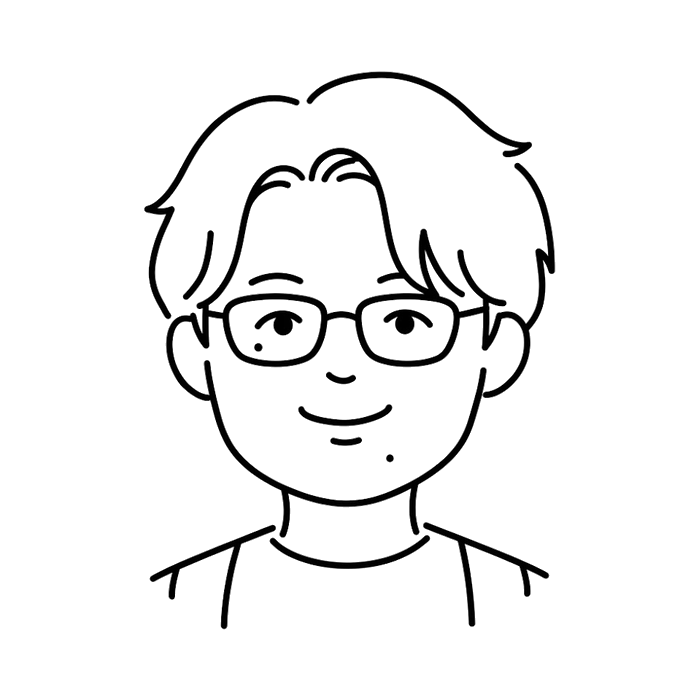
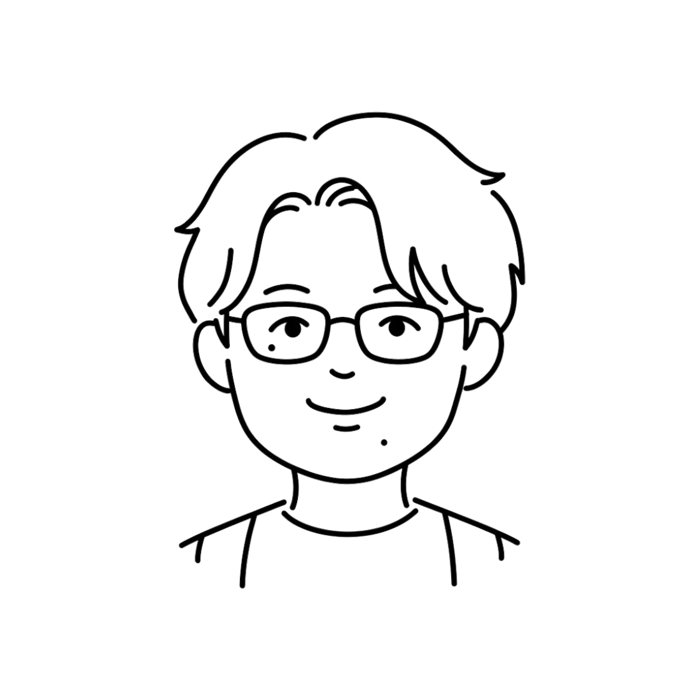
content: スキルと資格を 1 つの欄にまとめ、顔の肩を出す
- 業務実績と賞歴を 1 欄に統合（賞歴は小見出しに）
- 免許・資格の節をなくし、資格をスキル表のカテゴリの 1 つにする。
  表の 3 列目は資格も入るので「技術」から「内容」に変えた
- 顔画像はキャンバスを広げて被写体を小さくする。円のマスクが
  肩の両端（＝四隅）を切って «顔の圧» が強くなっていたので、
  肩が円の内側に収まる大きさにした

欄は 基本情報 / 略歴 / 業務実績 / スキル / 備考 の 5 つ。

Changed region(s): [[0.21, 0.12, 0.81, 0.9], [0.48, 0.09, 0.66, 0.15], [0.66, 0.15, 0.69, 0.18]]

diff --git a/src/components/SkillTable.tsx b/src/components/SkillTable.tsx
@@ -6,7 +6,7 @@ import type { Skill } from '@/lib/items';
 /**
  * 履歴書のスキル欄。
  *
- * 言語 / DB / OS と分けて表を並べると、どこに何があるか探すことになるので、
+ * 言語 / DB / OS / 資格 と分けて表を並べると、どこに何があるか探すことになるので、
  * 1 枚の表に全部入れてカテゴリで絞れるようにする。
  * カテゴリのボタンは表の中身から作るので、行を足すだけで増える。
  */
@@ -55,7 +55,7 @@ export default function SkillTable({ skills }: { skills: Skill[] }) {
           <tr>
             <th>カテゴリ</th>
             <th>経験</th>
-            <th>技術</th>
+            <th>内容</th>
           </tr>
         </thead>
         <tbody>

diff --git a/content/rirekisho.md b/content/rirekisho.md
@@ -50,25 +50,14 @@ title: rirekisho
 
 **パソナ リスキリング・イニシアティブ 第6期**（管理職層向け AI 研修プログラム）— 講師 / パソナデータ＆デザイン / 2025年11月〜2026年3月
 
-## スキル・経験
-
-<!--skills-->
-
-## 免許・資格
-
-| 区分 | 免許・資格 |
-| --- | --- |
-| 会計 | 日商簿記 2級 |
-| 会計 | FP 3級 |
-| 情報 | IT パスポート |
-| 情報 | C言語プログラミング能力認定試験 2級 |
-| 語学 | TOEIC 755点 |
-| 語学 | 漢字検定 2級 |
-
-## 賞歴
+### 賞歴
 
 - **SORACOM Summer Challenge 2020 ファイナリスト選出** — 株式会社ソラコム / 2020年
 - **立命館大学「IoT ハンズオン -実際に体験-」** — 立命館大学
+
+## スキル
+
+<!--skills-->
 
 ## 備考
 

diff --git a/content/skills.md b/content/skills.md
@@ -9,7 +9,7 @@ title: スキル・経験
   並びは経験の長い順。表示もこの順のまま。
 -->
 
-| カテゴリ | 経験 | 技術 |
+| カテゴリ | 経験 | 内容 |
 | --- | --- | --- |
 | OS | 10年 | Windows |
 | 言語 | 6年 | HTML / CSS / JavaScript |
@@ -43,3 +43,9 @@ title: スキル・経験
 | そのほか | — | Stripe（決済サービス）の運用 |
 | そのほか | — | vitest |
 | そのほか | — | Android の小技（AOSP を読む / Magisk でブート設定を変更） |
+| 資格 | — | 日商簿記 2級 |
+| 資格 | — | FP 3級 |
+| 資格 | — | IT パスポート |
+| 資格 | — | C言語プログラミング能力認定試験 2級 |
+| 資格 | — | TOEIC 755点 |
+| 資格 | — | 漢字検定 2級 |
